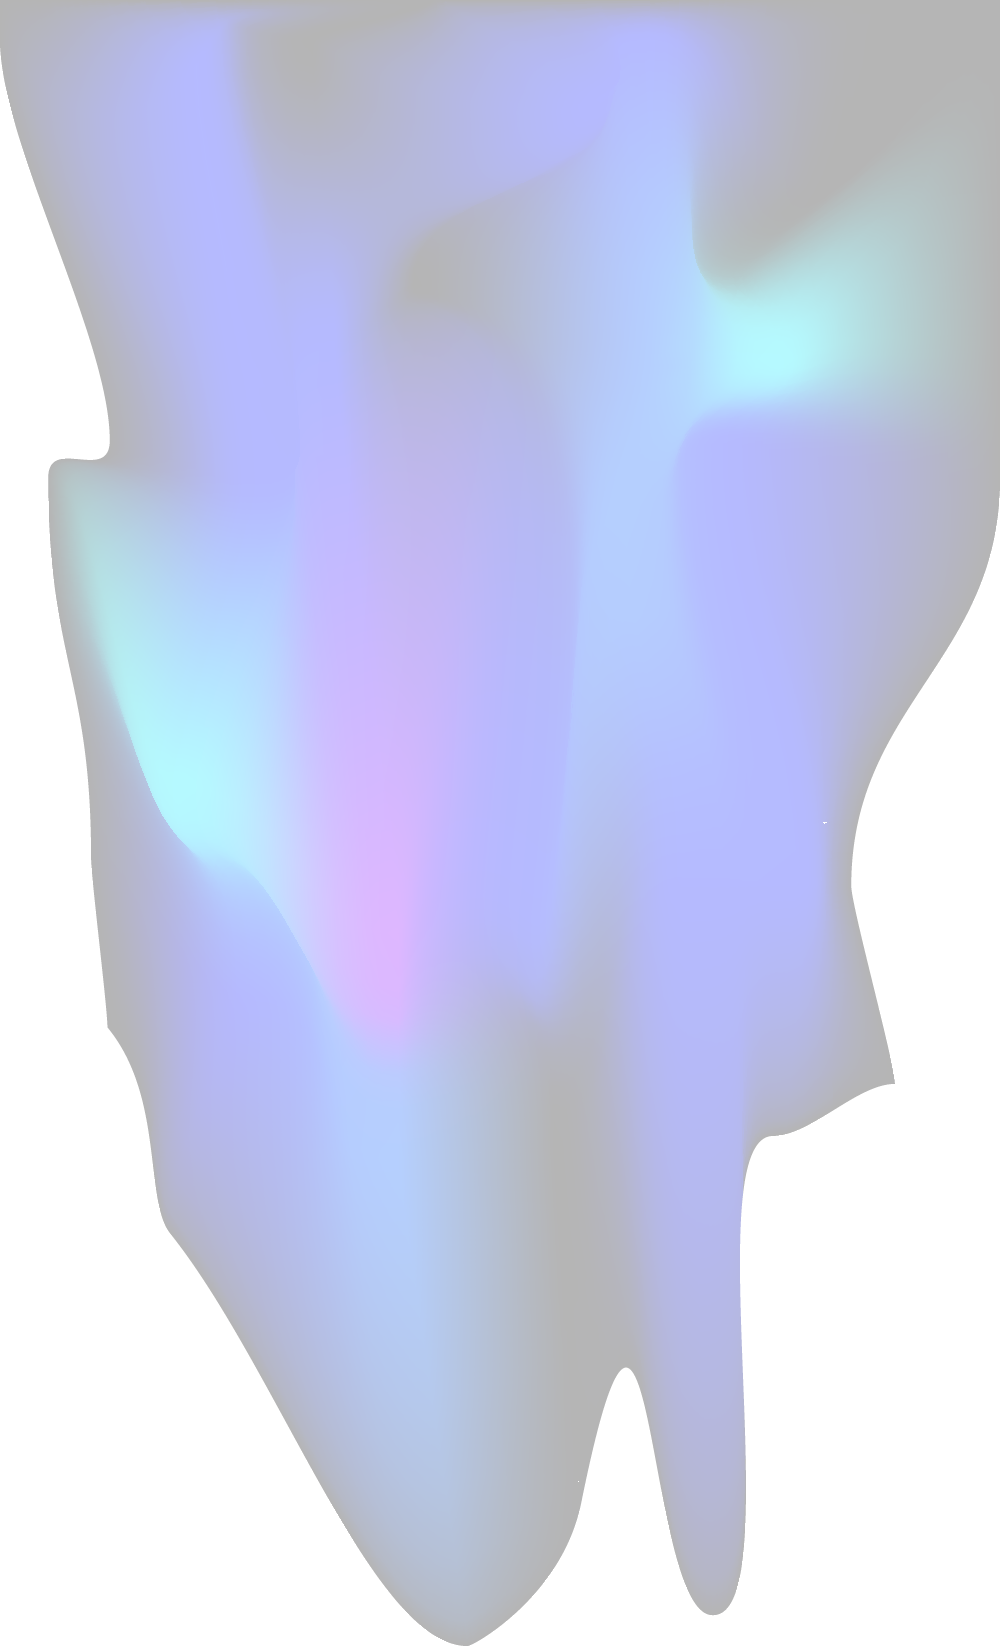
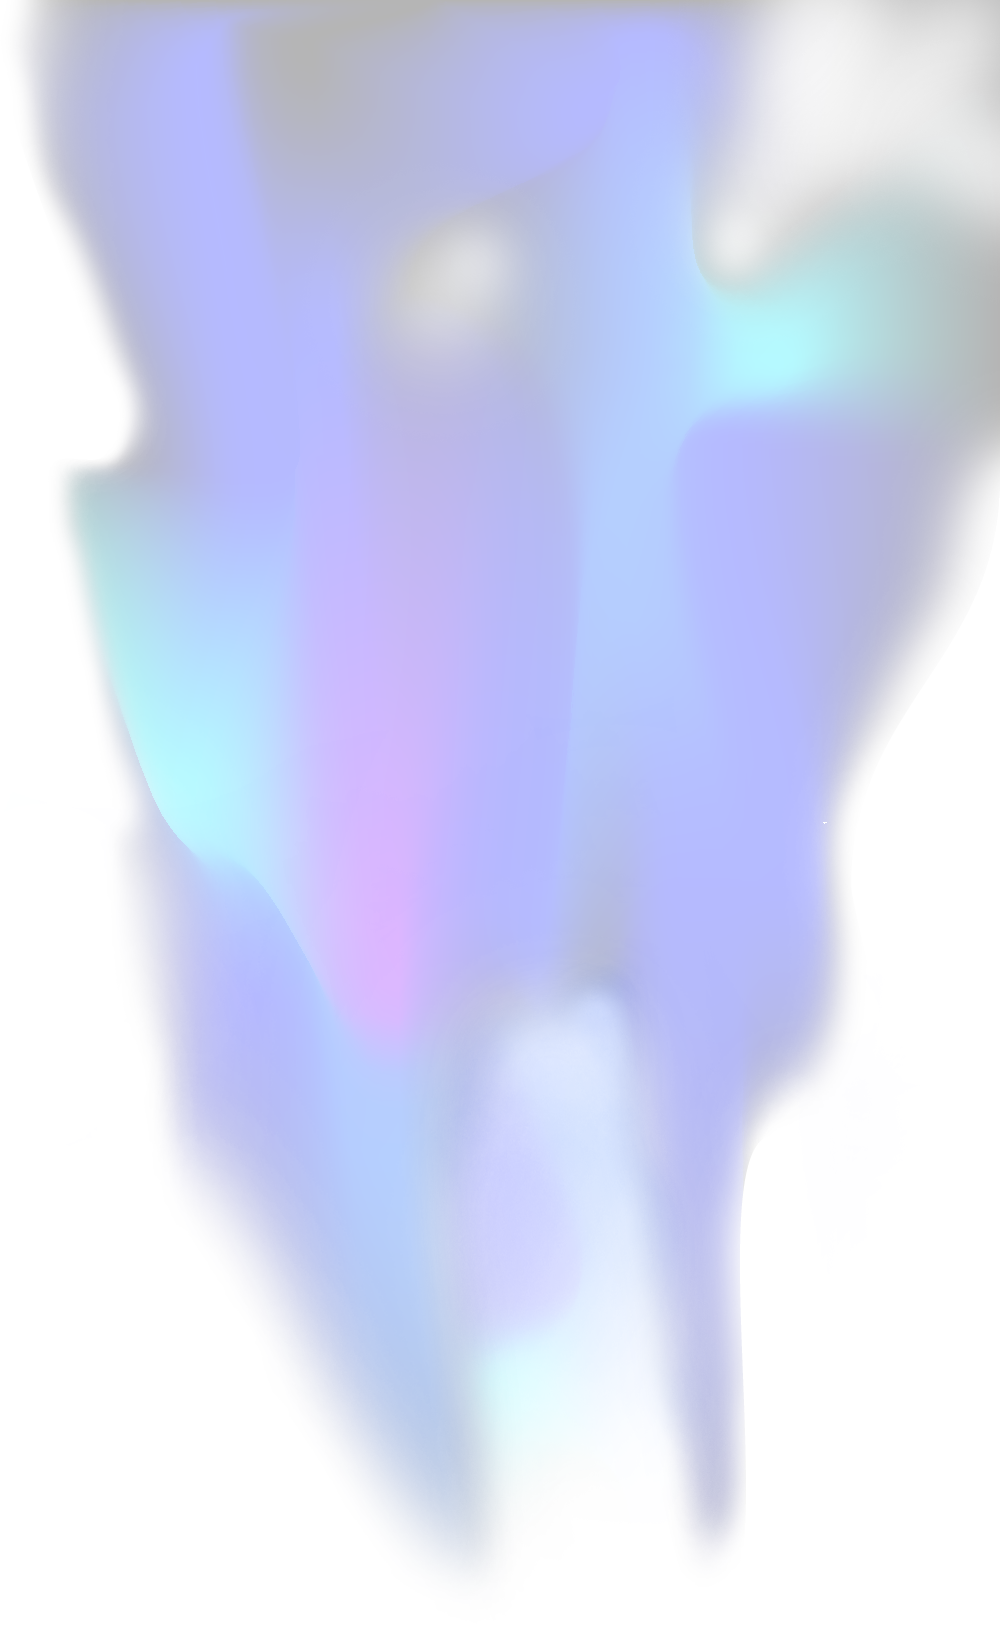
add color split animation

Changed region(s): [[0.0, 0.0, 1.0, 1.0], [0.682, 0.0, 1.0, 0.1859], [0.403, 0.1239, 0.527, 0.2169]]

diff --git a/src/components/ColorSplitText/index.tsx b/src/components/ColorSplitText/index.tsx
@@ -1,38 +1,81 @@
-import { Box, Typography, TypographyProps } from '@mui/material'
+import {
+  Box,
+  keyframes,
+  styled,
+  Typography,
+  TypographyProps
+} from '@mui/material'
+
+const left = keyframes`
+0% {transform: translate(0,0);};
+1% {transform: translate(-5px,-5px);};
+5% {transform: translate(0px,0px);};
+98% {transform: translate(0px,0px);};
+99% {transform: translate(-5px,-0px);};
+100% {transform: translate(0,0);};
+`
+
+const right = keyframes`
+0% {transform: translate(0,0);};
+1% {transform: translate(5px,5px);};
+5% {transform: translate(0px,0px);};
+98% {transform: translate(0px,0px);};
+99% {transform: translate(5px,5px);};
+100% {transform: translate(0,0);};
+`
+
+const Left = styled(Typography)<{ animated?: boolean }>(({ animated }) => ({
+  animation: animated ? `${left} 5s ease-in-out infinite` : undefined,
+  animationDirection: 'alternate',
+  animationFillMode: 'forwards',
+  color: '#8D06FF',
+  position: 'absolute',
+  top: -2,
+  left: -1
+}))
+
+const Right = styled(Typography)<{ animated?: boolean }>(({ animated }) => ({
+  animation: animated ? `${right} 5s ease-in-out infinite` : undefined,
+  animationDirection: 'alternate',
+  animationFillMode: 'forwards',
+  color: '#00EDFF',
+  position: 'absolute',
+  top: 1,
+  left: 2
+}))
 
 export default function ColorSplitText({
   text,
+  animated,
   zIndex = 1,
   ...props
-}: { text: string | JSX.Element; zIndex?: number } & TypographyProps) {
+}: {
+  text: string | JSX.Element
+  zIndex?: number
+  animated?: boolean
+} & TypographyProps) {
   return (
     <Box position="relative" overflow="visible">
-      <Typography
+      <Left
+        animated={animated}
         {...props}
         sx={{
-          color: '#8D06FF',
-          position: 'absolute',
-          top: -2,
-          left: -1,
           whiteSpace: { xs: 'pre', md: 'nowrap' },
           zIndex
         }}
       >
         {text}
-      </Typography>
-      <Typography
+      </Left>
+      <Right
+        animated={animated}
         {...props}
         sx={{
-          color: '#00EDFF',
-          position: 'absolute',
-          top: 1,
-          left: 2,
           whiteSpace: { xs: 'pre', md: 'nowrap' },
           zIndex
         }}
       >
         {text}
-      </Typography>
+      </Right>
       <Typography
         {...props}
         sx={{

diff --git a/src/components/Logs/index.tsx b/src/components/Logs/index.tsx
@@ -1,10 +1,9 @@
-import { Box, styled, useTheme } from '@mui/material'
+import { Box, keyframes, styled, useTheme } from '@mui/material'
 import Carousel from 'react-spring-3d-carousel'
 import { v4 as uuidv4 } from 'uuid'
 import { config } from 'react-spring'
 import { useState } from 'react'
 import Card from './Card'
-import Particles from './Particle'
 import Keywords from 'components/Keywords'
 // import GradientCanvas from './GradientCanvas'
 // import GMesh from './GMesh'
@@ -12,6 +11,27 @@ import gradient from 'assets/gradient.png'
 import useBreakpoint from 'hooks/useBreakpoint'
 import VerticalCarousel from 'components/VerticalCarousel/VerticalCarousel'
 import ColorSplitText from 'components/ColorSplitText'
+
+const appear = keyframes`
+0% {opacity: 0.6; transform: translate(-50%, -30px) scale(1,1.6); };
+50% {opacity: 1; transform: translate(-50%, 0px) scale(0.8,1.3); };
+100% {opacity: 0.8; transform: translate(-50%, 30) scale(1,1);}
+`
+
+const StyledImg = styled('img')({
+  transform: 'translate(-50%, 0)',
+  transformOrigin: 'center top',
+  animation: `${appear} 8s ease-in-out infinite`,
+  animationDirection: 'alternate',
+  animationFillMode: 'forwards',
+  opacity: 0,
+  maxWidth: '1440px',
+  position: 'absolute',
+  left: '50%',
+  width: '100%',
+  zIndex: -2,
+  height: '200vh'
+})
 
 const Light = styled('div')(({ theme }) => ({
   background: theme.gradient.gradient1,
@@ -122,23 +142,8 @@ export default function Logs() {
               ></ColorSplitText>
             </Box>
           </SidePanel>
-          <img
-            src={gradient}
-            alt=""
-            style={{
-              maxWidth: '1440px',
-              position: 'absolute',
-              left: '50%',
-              transform: 'translateX(-50%)',
-              width: '100%',
-              zIndex: -2,
-              height: '200vh'
-              // mixBlendMode: 'hard-light'
-              // filter: 'blur(5px)'
-            }}
-          ></img>
+          <StyledImg src={gradient} alt=""></StyledImg>
         </Box>
-        <Particles />
         <BottomPanel />
 
         {isDownSm ? (

diff --git a/src/components/Footer/index.tsx b/src/components/Footer/index.tsx
@@ -1,6 +1,28 @@
-import { Box, Typography, styled } from '@mui/material'
+import { Box, Typography, styled, keyframes } from '@mui/material'
 import { ReactComponent as Icon } from 'assets/icon.svg'
 import gradient from 'assets/gradient.png'
+
+const appear = keyframes`
+0% {opacity: 0.6; transform:rotate(180deg); background-size:100% 100%;};
+50% {opacity: 0.8; transform:rotate(180deg); background-size:90% 130%;};
+100% {opacity: 1; transform:rotate(180deg); background-size:110% 100%;}
+`
+
+const StyledImg = styled('div')({
+  transformOrigin: 'center center',
+  animation: `${appear} 10s ease-in-out infinite`,
+  animationDirection: 'alternate',
+  animationFillMode: 'forwards',
+  position: 'absolute',
+  bottom: 0,
+  left: 0,
+  width: '100%',
+  zIndex: -2,
+  height: '150vh',
+  background: `url(${gradient}) no-repeat`,
+  backgroundSize: '100% 200%',
+  backgroundPosition: 'center center'
+})
 
 const Light = styled('div')(({ theme }) => ({
   background: theme.gradient.gradient2,
@@ -32,7 +54,7 @@ const SidePanel = styled('footer')(({ theme }) => ({
   justifyContent: 'center',
   overflow: 'visible',
   position: 'relative',
-  zIndex: 2
+  zIndex: 4
 }))
 
 export default function Footer() {
@@ -68,19 +90,7 @@ export default function Footer() {
       <Box>
         <SidePanel>
           <Light></Light>
-          <img
-            src={gradient}
-            style={{
-              position: 'absolute',
-              bottom: 0,
-              left: 0,
-              width: '100%',
-              transform: 'rotate(180deg)',
-              zIndex: -1,
-              height: '200vh'
-            }}
-            alt=""
-          />
+          <StyledImg />
           ©2022 IVC17 Crypto Study Log. All rights reserved.
         </SidePanel>
       </Box>

diff --git a/src/utils/config.ts b/src/utils/config.ts
@@ -1,5 +1,5 @@
 import cube from 'assets/cube.svg'
-// import { MoveDirection, OutMode } from "tsparticles-engine";
+import { MoveDirection, OutMode } from "tsparticles-engine";
 
 export const particleConfig = {
   fpsLimit: 100,
@@ -133,7 +133,8 @@ export const configEmitter = {
       value: '#ffffff'
     },
     move: {
-      direction: 'none' as any,
+      // direction: MoveDirection.top,
+      direction:'bottom' as any,
       enable: true,
       outModes: {
         default: 'bounce'as any
@@ -149,10 +150,6 @@ export const configEmitter = {
       }
     },
     number: {
-      density: {
-        enable: false,
-        area: 2000
-      },
       limit: 0,
       value: 5
     },
@@ -186,13 +183,13 @@ export const configEmitter = {
 
   emitters: [
     {
-        direction: 'top' as any,
+        direction: 'bottom' as any,
         position: {
           y:5,
         },
         life: {
             duration: 1,
-            delay: 8,
+            delay: 6,
             count: 0,
       },
       rendom: {

diff --git a/src/pages/App.tsx b/src/pages/App.tsx
@@ -4,13 +4,20 @@ import Grid from 'components/Grid'
 import Header from 'components/Header'
 import Landing from 'components/Landing'
 import Logs from 'components/Logs'
+import Particles from 'components/Particles'
 import SeeMore from 'components/SeeMore'
 
 function App() {
   return (
-    <Box display="flex" flexDirection={'column'} justifyContent="space-between">
+    <Box
+      display="flex"
+      flexDirection={'column'}
+      justifyContent="space-between"
+      position="relative"
+    >
       <Header />
       <Landing />
+      <Particles />
       <Box zIndex={4}>
         <Logs />
       </Box>

diff --git a/src/components/Particles/index.tsx b/src/components/Particles/index.tsx
@@ -13,7 +13,10 @@ const appear = keyframes`
 
 const Wrapper = styled(Box)({
   width: '100%',
-  height: '100vh',
+  bottom: 0,
+  // top: 'calc(100% - 500px)',
+  left: 0,
+  height: 'calc(100% - 100vh)',
   maxWidth: '100%',
   position: 'absolute',
   animation: `${appear} 10s`,
@@ -95,7 +98,7 @@ export default function Particles() {
   }, [tsPContainer, isDownMd, isDownLg])
 
   return (
-    <Wrapper>
+    <Wrapper id="emitterWrapper">
       <TsParticles
         id="tsparticlesEmitter"
         init={particlesInit}

diff --git a/src/components/Landing/index.tsx b/src/components/Landing/index.tsx
@@ -44,12 +44,14 @@ export default function Landing() {
             fontWeight={900}
             zIndex={30}
             text={<>Crypto Study Log</>}
+            animated
           />
           <ColorSplitText
             fontSize={isDownMd ? 20 : 50}
             fontWeight={900}
             zIndex={30}
             text={<>Notes for crypto related stuff</>}
+            animated
           />
         </Box>
         <Box

diff --git a/src/components/Logs/Gradient/Field2.tsx b/src/components/Logs/Gradient/Field2.tsx
@@ -1,8 +1,10 @@
 import { Box } from '@mui/material'
-import { useRef } from 'react'
+import { useEffect, useRef } from 'react'
 
 export default function Field2() {
-  const canvas = useRef < HTMLCanvasElement > null
+  const canvas = useRef<HTMLCanvasElement>(null)
+
+  useEffect(() => {}, [])
 
   return (
     <Box height="100vh" minHeight={'500px'} width="100%">

diff --git a/src/components/Keywords/index.tsx b/src/components/Keywords/index.tsx
@@ -6,7 +6,7 @@ import { ReactComponent as KeywordsLight } from 'assets/keywords.svg'
 export default function Keywords() {
   return (
     <Box
-      height="100vh"
+      margin={{ xs: 0, md: '80px 0' }}
       position="relative"
       width="100%"
       sx={{ overflowX: 'hidden', display: 'flex', justifyContent: 'center' }}
